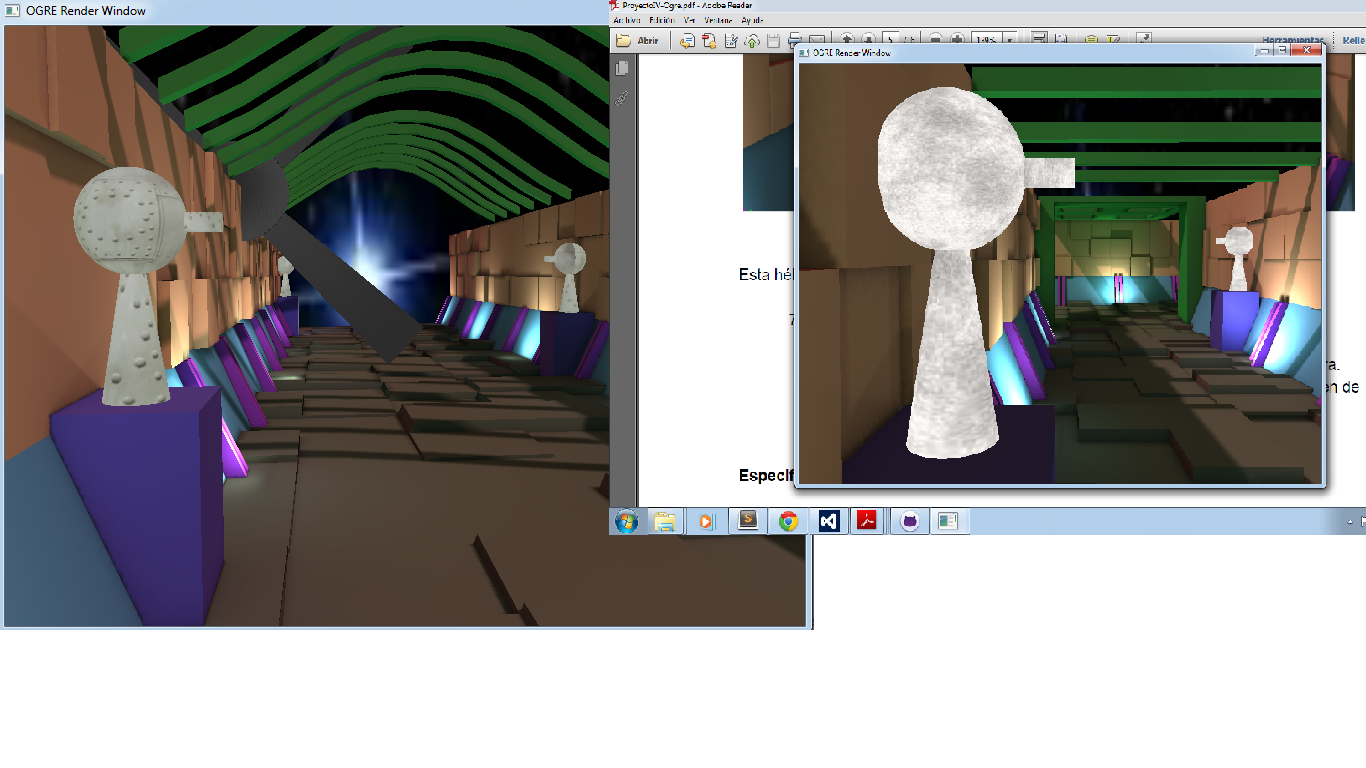
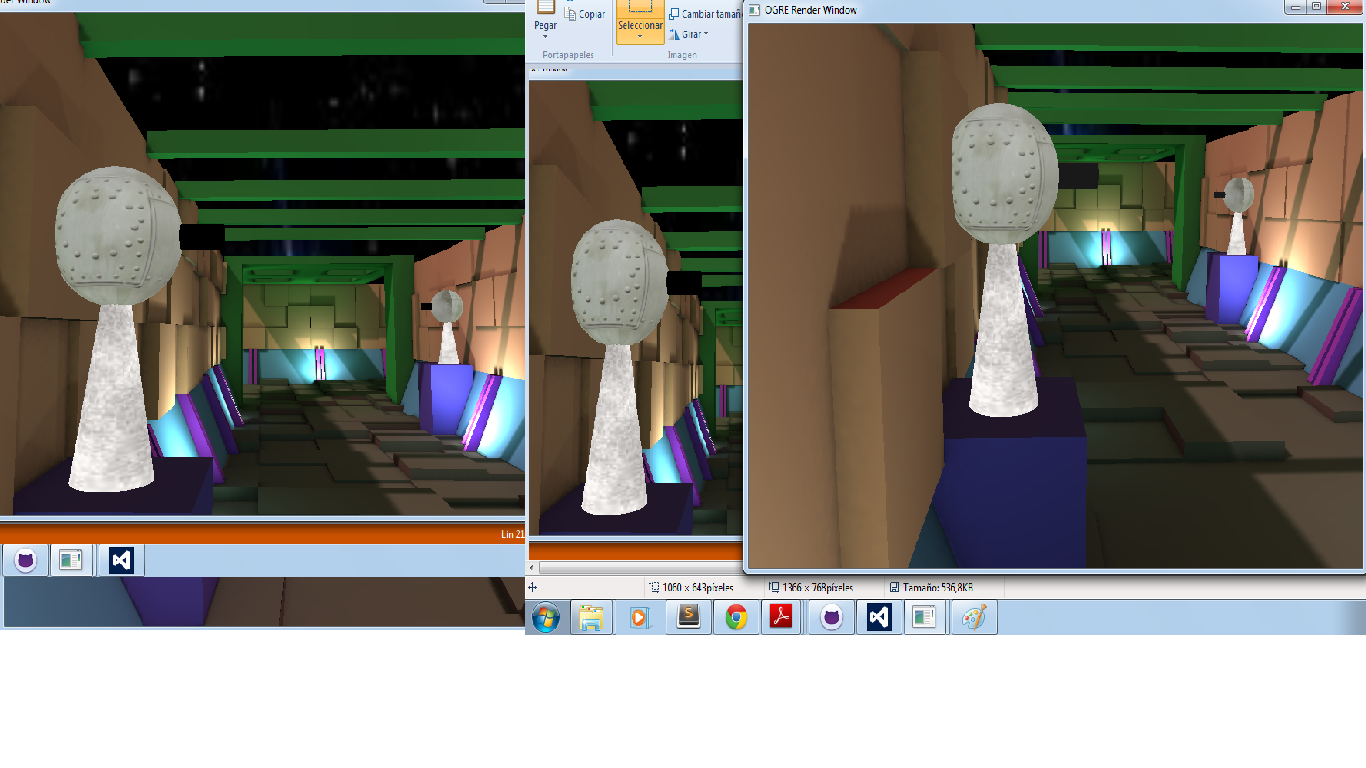
foto

diff --git a/Proyecto 4/Ogre_Plantilla_01/Ogre_Plantilla_01/Torreta.cpp b/Proyecto 4/Ogre_Plantilla_01/Ogre_Plantilla_01/Torreta.cpp
@@ -17,8 +17,8 @@ Torreta::Torreta(Ogre::String _nombre, Ogre::SceneManager* sm, Ogre::Real _x, Og
 	Ogre::Entity* entArma = mSceneMgr->createEntity("usb_cilindro.mesh");
 
 	entTorreta->setMaterialName("Torreta_text");
-	entSuperior->setMaterialName("Torreta_text");
-	entArma->setMaterialName("Torreta_text");
+	entSuperior->setMaterialName("Torreta_text1");
+	entArma->setMaterialName("Torreta_text2");
 	
 	nodoSuperior->attachObject(entSuperior);	
 	nodoSuperior->setScale(0.05,0.05,0.05);
